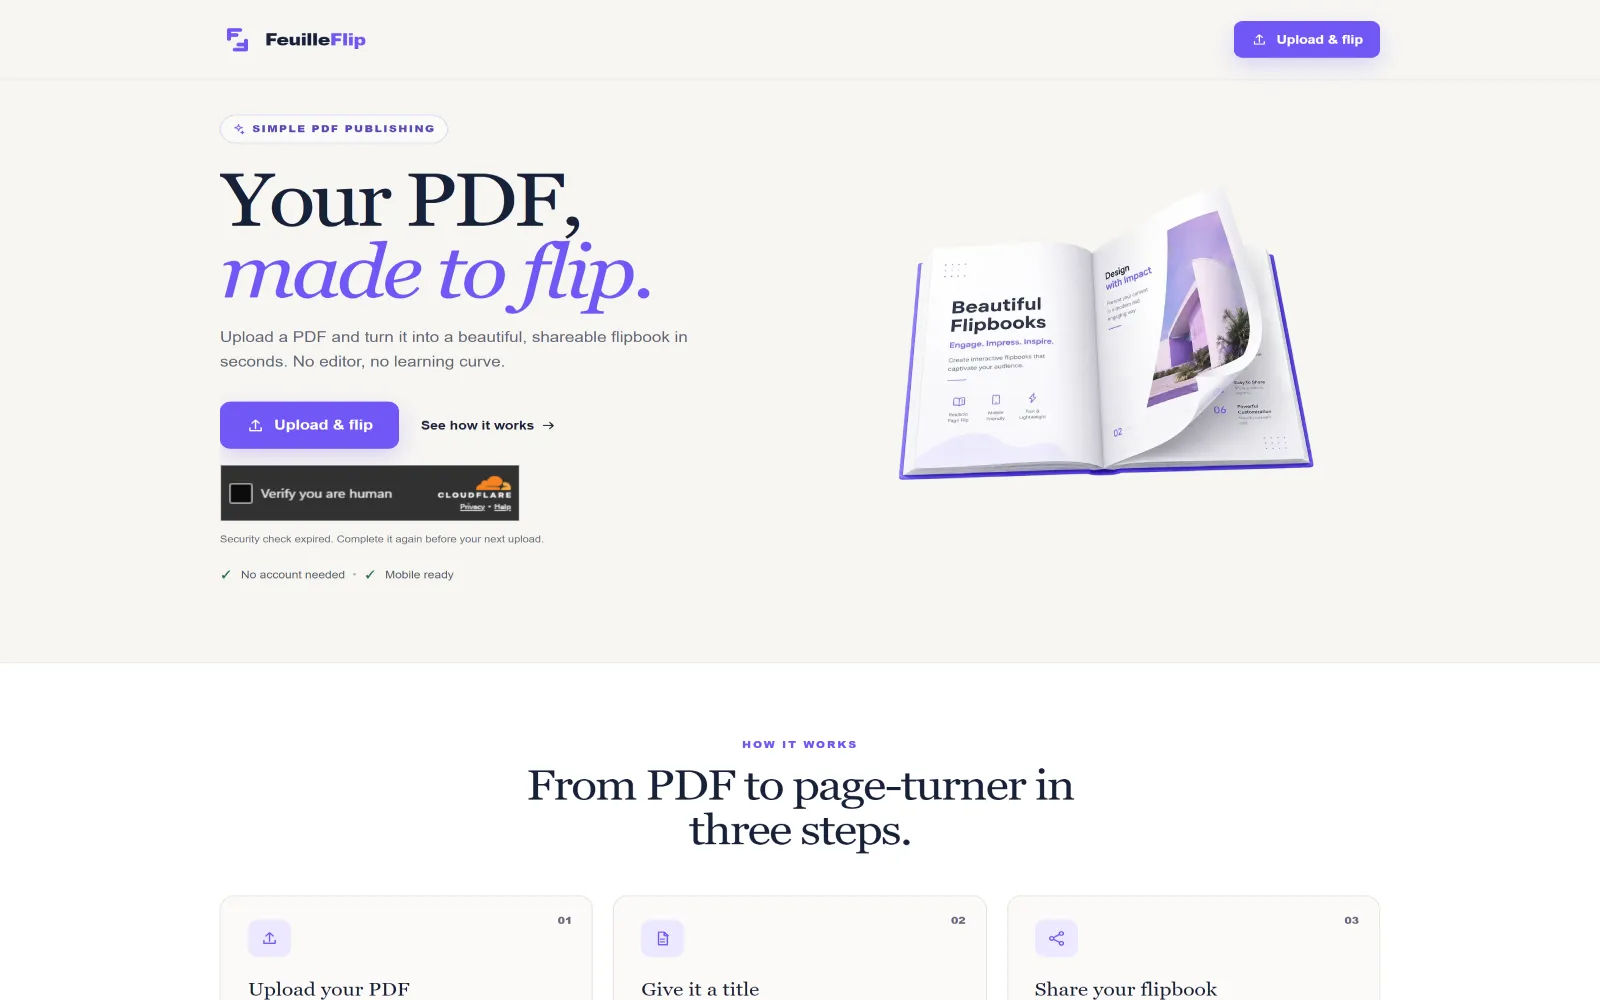
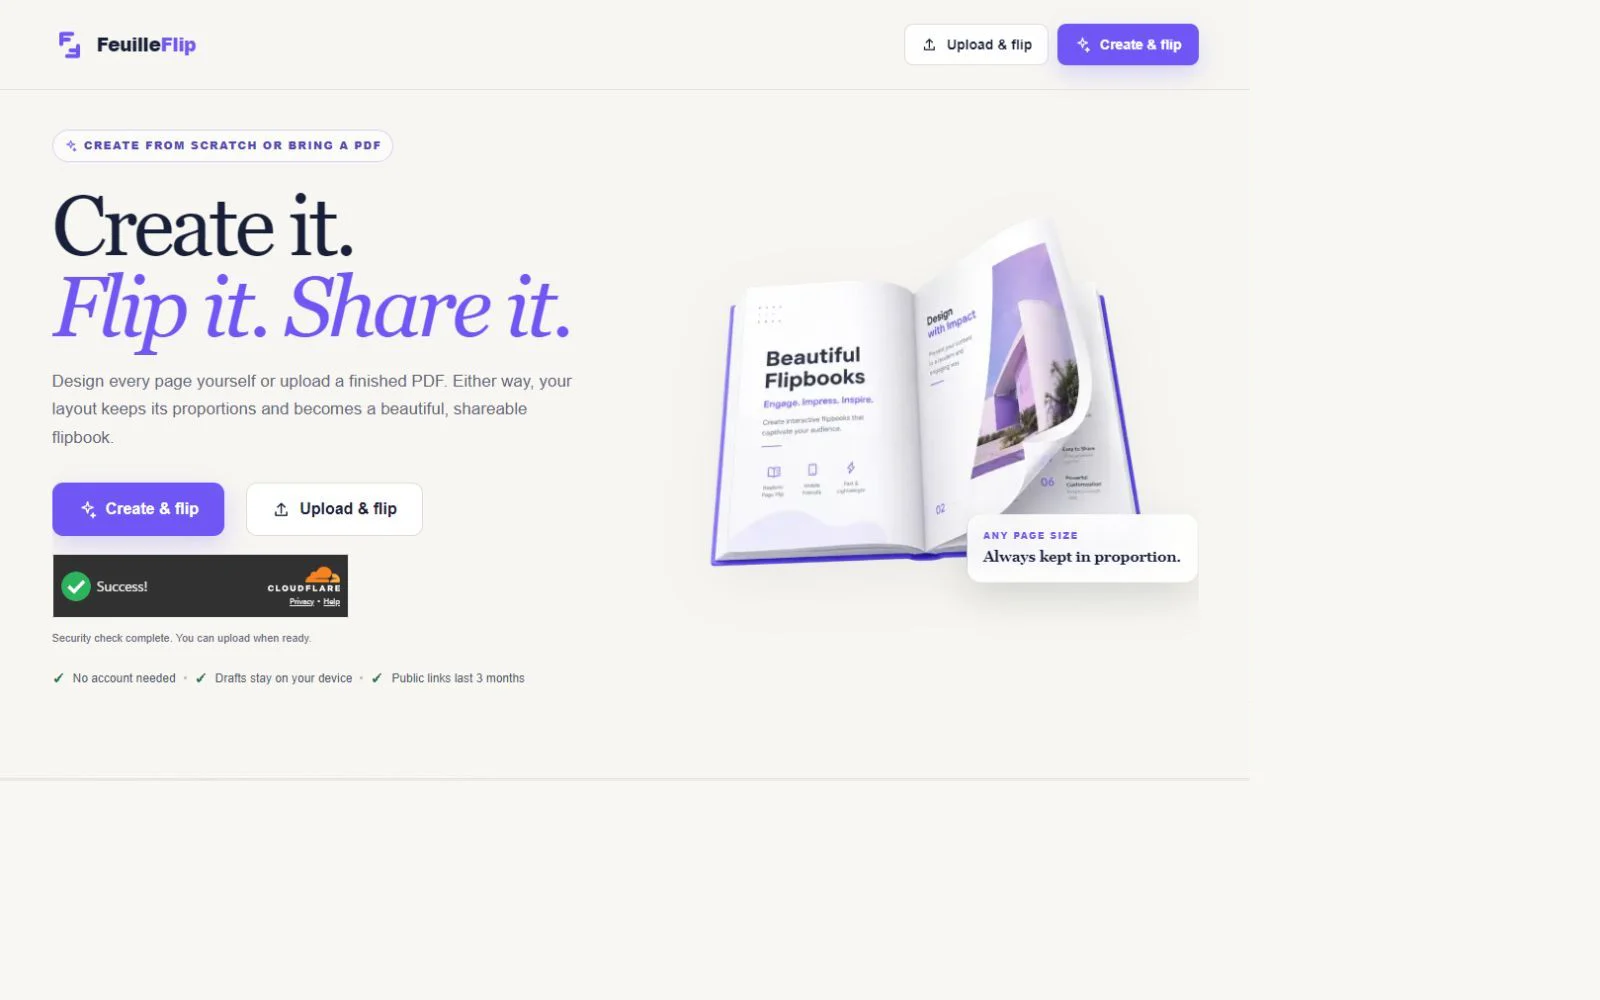
Update #portfolio > Feuille Flip

diff --git a/app/data/projects.ts b/app/data/projects.ts
@@ -37,7 +37,7 @@ const portfolioPixels = img('portfolio-pixels');
 const portfolioLuxe = img('portfolio-luxe');
 const portfolioHacker = img('portfolio-hacker');
 const flipLandingTop = img('flip-landing-top');
-const flipLandingBottom = img('flip-landing-bottom');
+const flipEditor = img('flip-editor');
 const flipUpload = img('flip-upload');
 const flipViewer = img('flip-viewer');
 
@@ -302,21 +302,24 @@ const projectEntries = [
     id: 'feuille-flip',
     num: '04',
     name: 'Feuille Flip',
-    tagline:
-      'Interactive flipbook platform with PDF upload and realistic page turning',
+    tagline: 'Local-first page editor and HD flipbook publisher',
     url: 'feuille-flip.netlify.app',
+    live: 'https://feuille-flip.netlify.app',
     description:
-      'A modern flipbook platform that lets users upload PDF documents and instantly convert them into interactive, realistic page-flipping books. Built with Next.js App Router and focused on performance, responsive design, and a smooth reading experience.',
+      'Feuille Flip is a local-first page designer and PDF publisher. Users can create pages from scratch or import a PDF, preserve the chosen ratio, autosave projects on-device, and publish an HD flipbook with social sharing. Public links and files expire after three calendar months.',
     features: [
-      'Upload PDF documents and instantly generate interactive flipbooks',
-      'Realistic page-turning animation with responsive desktop and mobile viewing',
-      'Protected uploads with Cloudflare Turnstile and server-side validation using Zod',
+      'Design up to 100 pages with flexible sizes, quick layouts, text, photos, drawing, cropping, gradients, borders, shadows, and drag-to-reorder thumbnails',
+      'IndexedDB autosave plus portable .feuilleflip project export and import, with no account required',
+      'PDF import preserves the source page ratio; editor pages publish as sharp HD WebP assets with at least 2,560 pixels on the longest edge',
+      'Turnstile-protected publishing, social sharing, and automatic link and file deletion after three calendar months',
     ],
     stack: [
       'Next.js 16',
       'React 19',
       'TypeScript',
-      'CSS3',
+      'Fabric.js',
+      'IndexedDB',
+      'PDF.js',
       'Supabase',
       'Cloudflare Turnstile',
       'Zod',
@@ -329,31 +332,26 @@ const projectEntries = [
         label: 'Source code',
       },
     ],
-    demo: {
-      url: 'https://feuille-flip.netlify.app',
-      deploy: ['Netlify', 'Supabase'],
-      note: 'Portfolio-only demo preview: frontend on Netlify, backend/database on Supabase.',
-    },
     images: [
       {
         src: flipLandingTop,
-        alt: 'Feuille Flip landing page hero section',
-        caption: 'Landing page',
+        alt: 'Feuille Flip landing page offering Create and Flip or PDF upload workflows',
+        caption: 'Create from scratch or bring a PDF',
       },
       {
-        src: flipLandingBottom,
-        alt: 'Feuille Flip landing page features section',
-        caption: 'Features overview',
+        src: flipEditor,
+        alt: 'Feuille Flip visual page editor with quick layouts, page thumbnails, and HD controls',
+        caption: 'Local-first visual page editor',
       },
       {
         src: flipUpload,
-        alt: 'PDF upload interface',
-        caption: 'Upload PDF',
+        alt: 'Feuille Flip protected PDF upload dialog with original-ratio and three-month retention notices',
+        caption: 'Protected PDF publishing',
       },
       {
         src: flipViewer,
-        alt: 'Interactive flipbook viewer',
-        caption: 'Flipbook viewer',
+        alt: 'Feuille Flip HD viewer showing a polished open two-page spread',
+        caption: 'Responsive HD page-turning viewer',
       },
     ],
     accent: 'violet',
